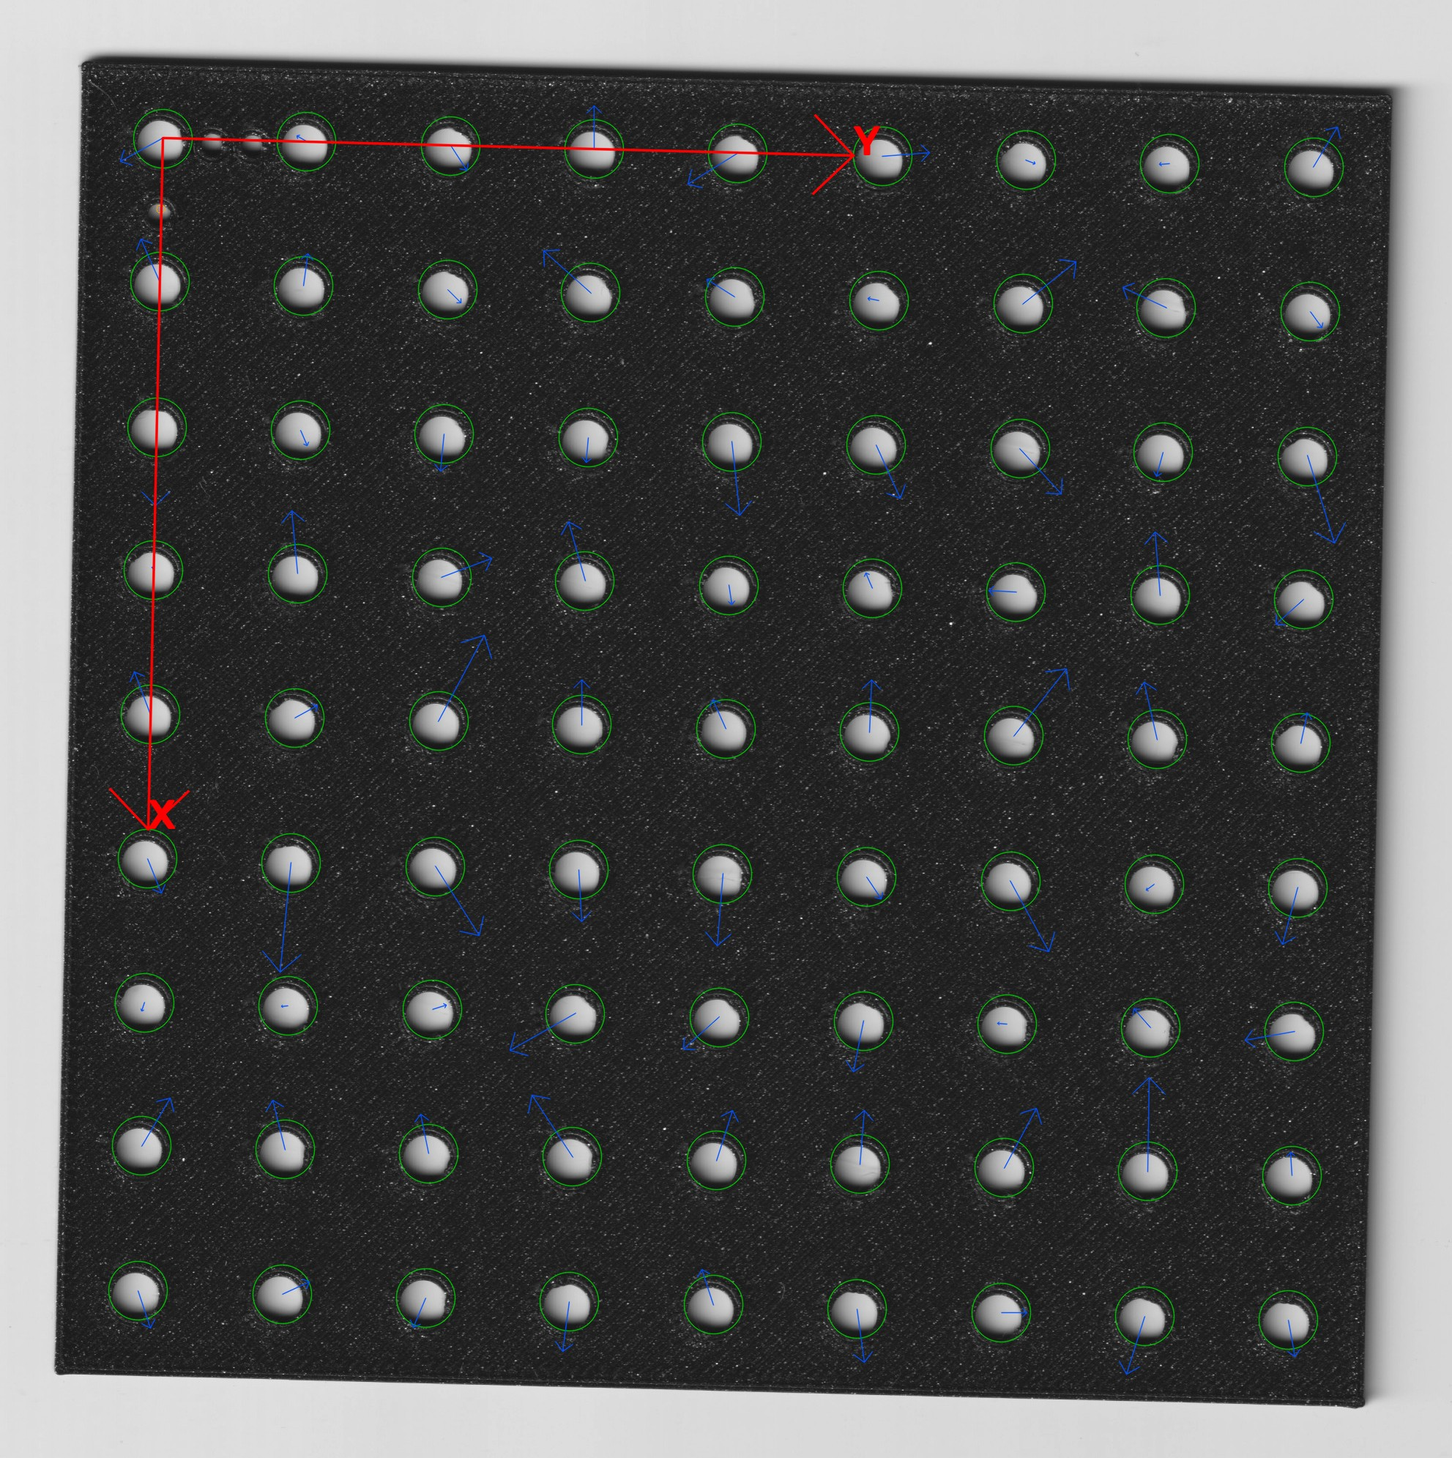
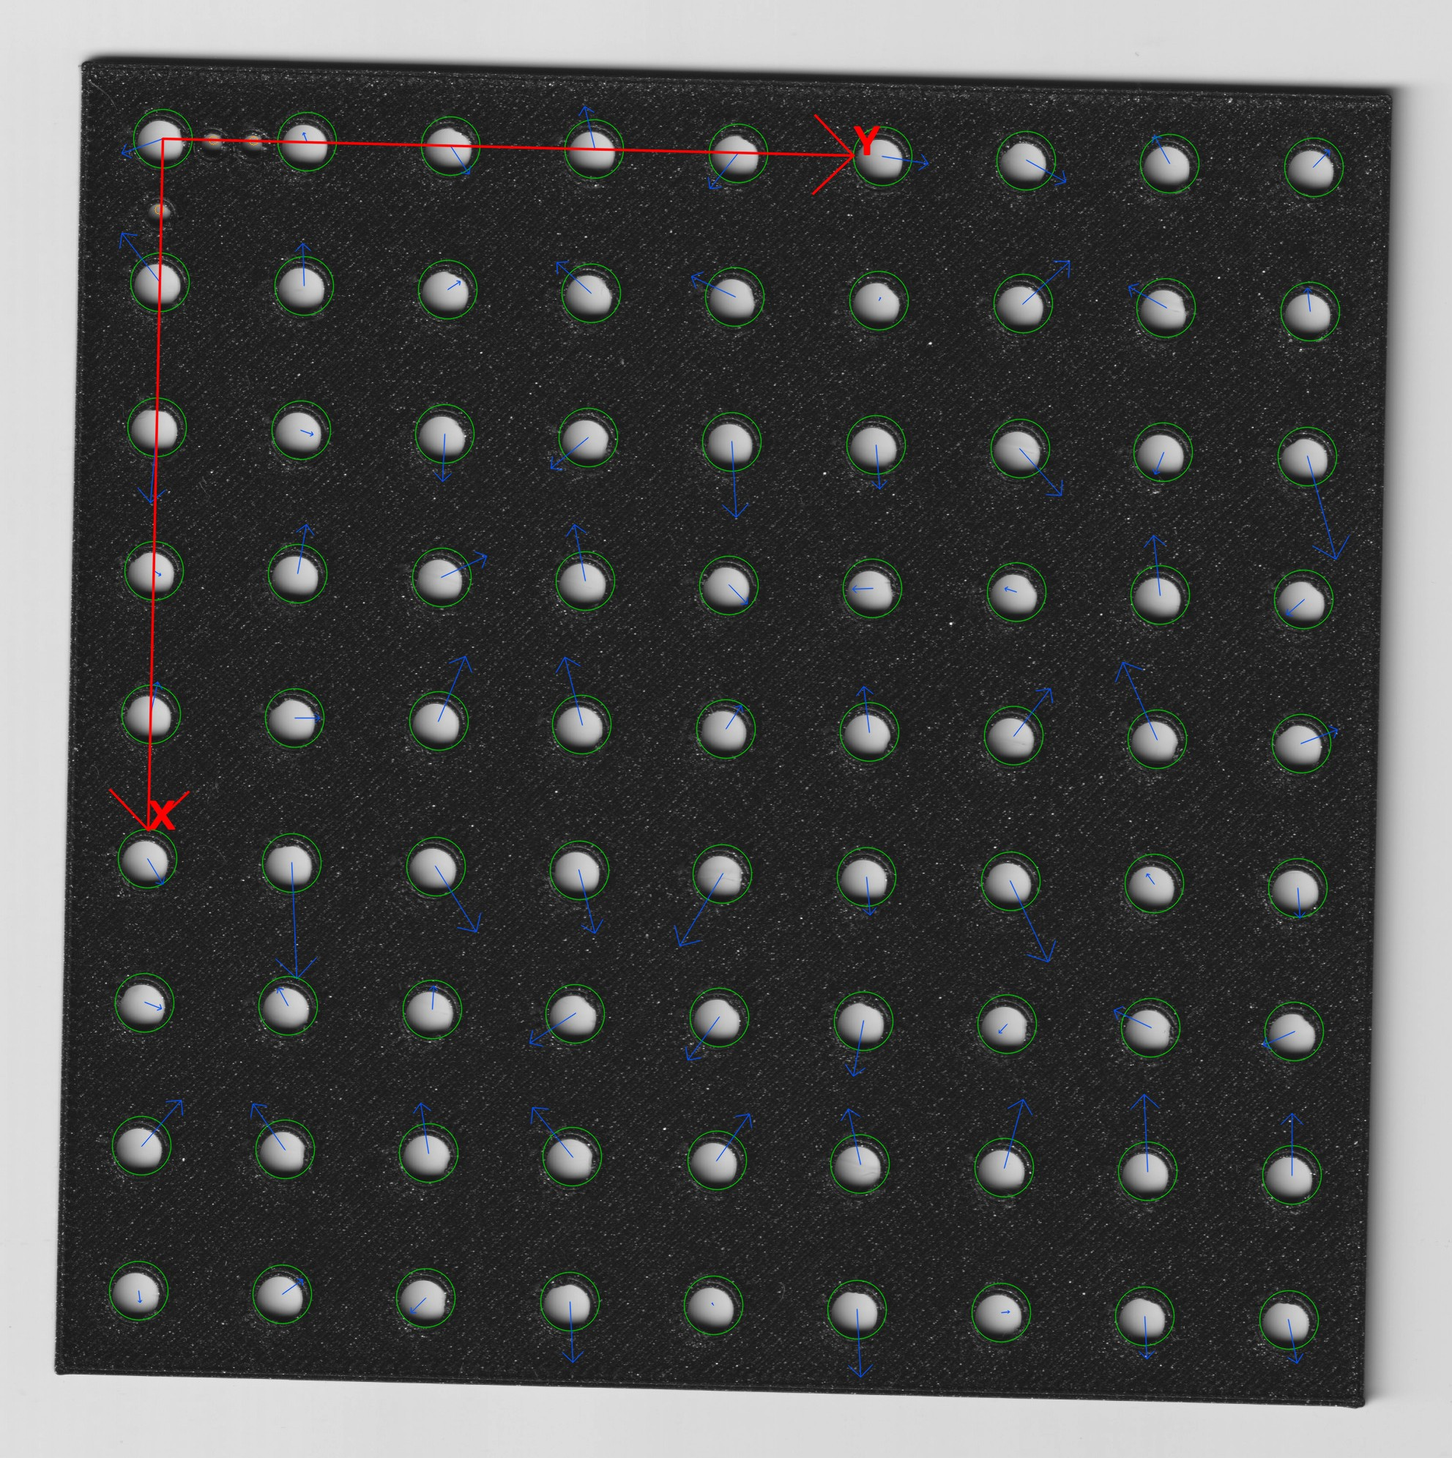
Glare-robust hole detection; photo capture tips
Glare bands from a lamp reflecting off the plate split the dark plate mask,
so whole columns of holes went missing and centroids were pulled toward
the glare. Detection now bridges such gaps to find the plate, finds hole
candidates from a local-contrast map, predicts missing grid positions from
the lattice, and measures every hole with an edge circle fit whose
threshold adapts per ray. Adds a synthetic glare test case.

Real data: 2x iPhone photos with glare go from 56-66/81 holes to 81/81;
1x photo residuals drop from ~60 to ~33 um; scans are unchanged within noise.

diff --git a/web/index.html b/web/index.html
@@ -301,7 +301,8 @@ ul.rules { margin: 0; padding-left: 1.1em; display: flex; flex-direction: column
         <ol class="steps">
           <li>Print the reference sheet at 100% and tape it to a flat, hard table.</li>
           <li>Lay the plate inside the window, between the corner ticks.</li>
-          <li>Shoot from 30–40 cm with the 2× or 3× lens, the whole sheet in frame, soft even light, no flash.</li>
+          <li>Shoot from 40–50 cm with the 2× or 3× lens, the whole sheet in frame. The 1× lens up close distorts too much for accurate scale.</li>
+          <li>Use soft, even light and no flash. Check that no lamp reflects off the plate as bright bands.</li>
           <li>Turn the plate 90° on the sheet and take another photo. Turning the phone doesn't count.</li>
           <li>Use the original files. Photos sent through chat apps are shrunk and lose the focal length.</li>
         </ol>

diff --git a/skewcal/analyze.py b/skewcal/analyze.py
@@ -53,19 +53,145 @@ def load_gray(path):
 # Hole detection in a metric (fronto-parallel, known px/mm) image
 # ---------------------------------------------------------------------------
 
-def _component_holes(comp):
-    """Given a binary component mask (uint8 0/1), return label image of the
-    enclosed background regions (holes) and their stats."""
-    inv = (comp == 0).astype(np.uint8)
-    n, lab, stats, cent = cv2.connectedComponentsWithStats(inv, connectivity=4)
-    H, W = comp.shape
-    holes = []
+def _ellipse(k):
+    k = max(3, int(k) | 1)
+    return cv2.getStructuringElement(cv2.MORPH_ELLIPSE, (k, k))
+
+
+def _plate_region(mask, s, spec: PlateSpec):
+    """Plate blob from a binary 'plate-coloured' mask. Works at ~2 px/mm: closing
+    bridges gaps such as glare bands across a shiny plate, and the outer contour
+    is filled so the holes are part of the region. Returns a full-res bool mask."""
+    f = min(1.0, 2.0 / s)
+    m = cv2.resize(mask.astype(np.float32), None, fx=f, fy=f, interpolation=cv2.INTER_AREA) > 0.5
+    m = cv2.morphologyEx(m.astype(np.uint8), cv2.MORPH_CLOSE, _ellipse(1.6 * spec.pitch * s * f))
+    cs, _ = cv2.findContours(m, cv2.RETR_EXTERNAL, cv2.CHAIN_APPROX_SIMPLE)
+    area = (spec.size * s * f) ** 2
+    cs = [c for c in cs if 0.35 * area < cv2.contourArea(c) < 1.6 * area]
+    if not cs:
+        return None
+    region = np.zeros_like(m)
+    cv2.drawContours(region, [max(cs, key=cv2.contourArea)], -1, 1, cv2.FILLED)
+    return cv2.resize(region, (mask.shape[1], mask.shape[0]), interpolation=cv2.INTER_NEAREST).astype(bool)
+
+
+def _local_contrast(d, region, s, spec: PlateSpec):
+    """Hole-likeness map in 0..1: (d - local plate level) / (hole level - local plate level).
+    d has holes bright. The local plate level comes from a grey opening at ~2 px/mm,
+    which removes hole-sized bright spots but follows broad glare and shading."""
+    f = min(1.0, 2.0 / s)
+    dc = cv2.resize(d, None, fx=f, fy=f, interpolation=cv2.INTER_AREA)
+    bgc = cv2.morphologyEx(dc, cv2.MORPH_OPEN, _ellipse(1.7 * spec.hole_d * s * f))
+    bgc = cv2.GaussianBlur(bgc, (0, 0), 1.0)
+    bg = cv2.resize(bgc, (d.shape[1], d.shape[0]), interpolation=cv2.INTER_LINEAR)
+    white = float(np.percentile(d[region], 99.5)) if region.any() else float(d.max())
+    norm = (d - bg) / np.maximum(white - bg, 0.05)
+    return np.clip(norm, 0, 1).astype(np.float32), bg
+
+
+def _blobs(norm, region, s, spec: PlateSpec):
+    """Hole-sized round blobs of the contrast map inside the plate region."""
+    A_big = math.pi * (spec.hole_d / 2 * s) ** 2
+    cand = ((norm > 0.5) & region).astype(np.uint8)
+    n, lab, stats, cent = cv2.connectedComponentsWithStats(cand, connectivity=8)
+    big, small = [], []
     for k in range(1, n):
         x, y, w, h, a = stats[k]
-        if x == 0 or y == 0 or x + w >= W or y + h >= H:
-            continue                          # touches border -> outside region
-        holes.append((k, x, y, w, h, a, cent[k]))
-    return lab, holes
+        if min(w, h) < 3:
+            continue
+        if max(w, h) / min(w, h) > 1.5 or not (0.55 < a / float(w * h) < 0.97):
+            continue
+        q = a / A_big
+        if 0.45 < q < 1.8:
+            big.append(cent[k])
+        elif 0.05 < q <= 0.45:
+            small.append(cent[k])
+    return np.array(big).reshape(-1, 2), np.array(small).reshape(-1, 2)
+
+
+def _lattice_px(pts, pitch_px, n):
+    """Predict every grid position (pixels) from a partial set of hole centres:
+    square lattice of the given pitch, n x n, containing the found holes."""
+    d = pts[None, :, :] - pts[:, None, :]
+    r = np.linalg.norm(d, axis=2)
+    vec = d[(r > 0.75 * pitch_px) & (r < 1.25 * pitch_px)]
+    if len(vec) < 6:
+        return np.empty((0, 2))
+    a = np.arctan2(vec[:, 1], vec[:, 0])
+    phi = math.atan2(np.sin(4 * a).mean(), np.cos(4 * a).mean()) / 4
+    B = pitch_px * np.array([[math.cos(phi), -math.sin(phi)], [math.sin(phi), math.cos(phi)]])
+    q0 = pts[np.argmin(np.linalg.norm(pts - np.median(pts, axis=0), axis=1))]
+    ij = np.linalg.solve(B, (pts - q0).T).T
+    ok = np.max(np.abs(ij - np.round(ij)), axis=1) < 0.3
+    ij = np.round(ij[ok]).astype(int)
+    if len(ij) < 6:
+        return np.empty((0, 2))
+    L, *_ = np.linalg.lstsq(np.c_[ij, np.ones(len(ij))], pts[ok], rcond=None)
+    lo, hi = ij.max(0) - (n - 1), ij.min(0) + (n - 1)
+    gi, gj = np.meshgrid(np.arange(lo[0], hi[0] + 1), np.arange(lo[1], hi[1] + 1), indexing="ij")
+    grid = np.c_[gi.ravel(), gj.ravel()]
+    return np.c_[grid, np.ones(len(grid))] @ L
+
+
+def _edge_circle(d, cx, cy, r, n_rays=96):
+    """Sub-pixel hole centre from its edge. Along each ray the edge is where the
+    profile crosses halfway between the hole interior and *that ray's* outside
+    level, so uneven surroundings (glare, shading) don't pull the centre.
+    Returns (cx, cy, radius_px) or None if this doesn't look like a hole."""
+    H, W = d.shape
+    ang = np.arange(n_rays) * (2 * math.pi / n_rays)
+    ca, sa = np.cos(ang)[:, None], np.sin(ang)[:, None]
+    dt = 0.25
+    t = np.arange(0.15 * r, 1.9 * r, dt, dtype=np.float32)
+    inner_m, outer_m = t < 0.45 * r, (t > 1.35 * r) & (t < 1.85 * r)
+    for _ in range(3):
+        if not (2 * r < cx < W - 2 * r and 2 * r < cy < H - 2 * r):
+            return None
+        X = (cx + ca * t).astype(np.float32)
+        Y = (cy + sa * t).astype(np.float32)
+        prof = cv2.remap(d, X, Y, cv2.INTER_LINEAR)
+        inner = float(np.median(prof[:, inner_m]))
+        outer = np.median(prof[:, outer_m], axis=1)
+        con = inner - outer
+        cmed = float(np.median(con))
+        if cmed < 0.08:
+            return None
+        valid = con > max(0.05, 0.3 * cmed)
+        thr = (inner + outer) / 2
+        start = int(np.argmax(t >= 0.45 * r))
+        below = prof[:, start:] < thr[:, None]
+        k = np.argmax(below, axis=1) + start
+        valid &= below.any(axis=1)
+        idx = np.nonzero(valid)[0]
+        if len(idx) < 0.35 * n_rays:
+            return None
+        p0, p1 = prof[idx, k[idx] - 1], prof[idx, k[idx]]
+        te = t[k[idx] - 1] + (p0 - thr[idx]) / np.maximum(p0 - p1, 1e-6) * dt
+        inside = (te > 0.5 * r) & (te < 1.4 * r)
+        idx, te = idx[inside], te[inside]
+        # need the edge on most sides, or the fit is lopsided
+        if len(idx) < 0.35 * n_rays or len(np.unique((ang[idx] // (math.pi / 2)).astype(int))) < 4:
+            return None
+        ex, ey = cx + np.cos(ang[idx]) * te, cy + np.sin(ang[idx]) * te
+        keep = np.ones(len(ex), bool)
+        for _ in range(3):
+            A = np.c_[ex[keep], ey[keep], np.ones(keep.sum())]
+            sol, *_ = np.linalg.lstsq(A, -(ex[keep] ** 2 + ey[keep] ** 2), rcond=None)
+            ox, oy = -sol[0] / 2, -sol[1] / 2
+            rad = math.sqrt(max(ox * ox + oy * oy - sol[2], 1e-9))
+            res = np.abs(np.hypot(ex - ox, ey - oy) - rad)
+            mad = 1.4826 * np.median(res[keep])
+            new = res < max(3 * mad, 0.3)
+            if new.sum() < 0.3 * n_rays or np.array_equal(new, keep):
+                break
+            keep = new
+        if not (0.5 * r < rad < 1.4 * r):
+            return None
+        moved = math.hypot(ox - cx, oy - cy)
+        cx, cy = ox, oy
+        if moved < 0.01:
+            break
+    return cx, cy, rad
 
 
 def detect_holes(g, s, spec: PlateSpec, debug=None):
@@ -74,96 +200,62 @@ def detect_holes(g, s, spec: PlateSpec, debug=None):
     g: float32 image (0..1) where 1 px = 1/s mm, fronto-parallel.
     Returns dict with 'big' (N,2) and 'small' (M,2) sub-pixel centres in pixel
     coordinates (col,row), hole diameters (mm) and image statistics.
+
+    The plate is located with a global threshold (gaps such as glare bands are
+    bridged), hole candidates come from a local-contrast map, missing grid
+    positions are predicted from the lattice, and every grid hole is measured
+    by an edge circle fit that adapts to its own surroundings.
     """
     sig = max(0.6, 0.06 * s)
     gb = cv2.GaussianBlur(g, (0, 0), sig)
     g8 = np.clip(gb * 255, 0, 255).astype(np.uint8)
     _, bright = cv2.threshold(g8, 0, 1, cv2.THRESH_BINARY + cv2.THRESH_OTSU)
 
-    plate_area = (spec.size * s) ** 2
-    A_big = math.pi * (spec.hole_d / 2 * s) ** 2
     best = None
     for dark_plate in (True, False):
-        mask = (bright == 0) if dark_plate else (bright == 1)
-        mask = mask.astype(np.uint8)
-        n, lab, stats, _ = cv2.connectedComponentsWithStats(mask, connectivity=8)
-        order = np.argsort(-stats[1:, cv2.CC_STAT_AREA]) + 1
-        for k in order[:4]:
-            x, y, w, h, a = stats[k]
-            if not (0.35 * plate_area < a < 1.6 * plate_area):
-                continue
-            pad = 3
-            comp = np.zeros((h + 2 * pad, w + 2 * pad), np.uint8)
-            comp[pad:pad + h, pad:pad + w] = (lab[y:y + h, x:x + w] == k)
-            hlab, holes = _component_holes(comp)
-            big, small = [], []
-            for (hk, hx, hy, hw, hh, ha, hc) in holes:
-                if min(hw, hh) < 3:
-                    continue
-                aspect = max(hw, hh) / min(hw, hh)
-                fill = ha / float(hw * hh)
-                if aspect > 1.5 or not (0.55 < fill < 0.97):
-                    continue
-                q = ha / A_big
-                entry = (hc[0] + x - pad, hc[1] + y - pad, ha)
-                if 0.45 < q < 1.8:
-                    big.append(entry)
-                elif 0.05 < q <= 0.45:
-                    small.append(entry)
-            score = len(big)
-            if best is None or score > best["score"]:
-                plate_px = comp[pad:pad + h, pad:pad + w].astype(bool)
-                best = dict(score=score, big=big, small=small, dark_plate=dark_plate,
-                            bbox=(x, y, w, h), plate_px=plate_px)
-    if best is None or best["score"] < 6:
+        region = _plate_region(bright == (0 if dark_plate else 1), s, spec)
+        if region is None:
+            continue
+        d = gb if dark_plate else 1.0 - gb
+        norm, bg = _local_contrast(d, region, s, spec)
+        big, small = _blobs(norm, region, s, spec)
+        if best is None or len(big) > len(best["big"]):
+            best = dict(big=big, small=small, dark_plate=dark_plate, region=region, d=d, norm=norm)
+    if best is None or len(best["big"]) < 6:
         raise RuntimeError("Could not find the test plate in the image (need clear contrast "
                            "between the plate and what is behind its holes).")
 
-    x, y, w, h = best["bbox"]
-    sub = gb[y:y + h, x:x + w]
-    lvl_plate = float(np.median(sub[best["plate_px"]]))
-
-    # Hole (background) level: median inside the big holes
-    vals = []
-    for cx, cy, _ in best["big"]:
-        r = 0.3 * spec.hole_d / 2 * s
-        x0, x1 = int(cx - r), int(cx + r) + 1
-        y0, y1 = int(cy - r), int(cy + r) + 1
-        vals.append(np.median(gb[y0:y1, x0:x1]))
-    lvl_hole = float(np.median(vals))
-
-    def refine(cx, cy, rad_mm):
-        r = rad_mm * s
-        R = 1.35 * r + 2
-        for _ in range(4):
-            x0, x1 = int(math.floor(cx - R)), int(math.ceil(cx + R)) + 1
-            y0, y1 = int(math.floor(cy - R)), int(math.ceil(cy + R)) + 1
-            if x0 < 0 or y0 < 0 or x1 > g.shape[1] or y1 > g.shape[0]:
-                return None
-            patch = gb[y0:y1, x0:x1]
-            yy, xx = np.mgrid[y0:y1, x0:x1].astype(np.float32)
-            w = np.clip((patch - lvl_plate) / (lvl_hole - lvl_plate), 0, 1)
-            w *= ((xx - cx) ** 2 + (yy - cy) ** 2) <= R * R
-            sw = w.sum()
-            if sw <= 0:
-                return None
-            cx, cy = float((w * xx).sum() / sw), float((w * yy).sum() / sw)
-        d_mm = 2 * math.sqrt(sw / math.pi) / s
-        return cx, cy, d_mm
-
+    d, r_big = best["d"], spec.hole_d / 2 * s
+    pitch_px = spec.pitch * s
+    # every grid position the lattice predicts, then the blobs that the lattice missed
+    seeds = list(_lattice_px(best["big"], pitch_px, spec.n)) + list(best["big"])
     big, dbig = [], []
-    for cx, cy, _ in best["big"]:
-        r = refine(cx, cy, spec.hole_d / 2)
-        if r:
-            big.append(r[:2]); dbig.append(r[2])
+    for cx, cy in seeds:
+        if any(math.hypot(cx - bx, cy - by) < 0.4 * pitch_px for bx, by in big):
+            continue
+        r = _edge_circle(d, cx, cy, r_big)
+        if r and not any(math.hypot(r[0] - bx, r[1] - by) < 0.4 * pitch_px for bx, by in big):
+            big.append(r[:2]); dbig.append(2 * r[2] / s)
+
+    norm = best["norm"]
     small = []
-    for cx, cy, _ in best["small"]:
-        r = refine(cx, cy, spec.marker_d / 2)
-        if r:
-            small.append(r[:2])
-    return dict(big=np.array(big), small=np.array(small), hole_d=np.array(dbig),
-                dark_plate=best["dark_plate"], contrast=abs(lvl_hole - lvl_plate),
-                gb=gb, lvl_plate=lvl_plate, lvl_hole=lvl_hole, s=s)
+    R = int(math.ceil(0.9 * spec.marker_d * s))
+    for cx, cy in best["small"]:
+        x0, y0 = int(cx) - R, int(cy) - R
+        patch = norm[max(y0, 0):y0 + 2 * R + 1, max(x0, 0):x0 + 2 * R + 1]
+        if patch.size == 0 or patch.sum() <= 0:
+            continue
+        yy, xx = np.mgrid[max(y0, 0):max(y0, 0) + patch.shape[0], max(x0, 0):max(x0, 0) + patch.shape[1]]
+        small.append((float((patch * xx).sum() / patch.sum()), float((patch * yy).sum() / patch.sum())))
+
+    region = best["region"]
+    lvl_plate = float(np.median(gb[region & (norm < 0.2)]))
+    hole_vals = [gb[int(round(cy)), int(round(cx))] for cx, cy in big]
+    lvl_hole = float(np.median(hole_vals)) if hole_vals else float(gb.max())
+    return dict(big=np.array(big).reshape(-1, 2), small=np.array(small).reshape(-1, 2),
+                hole_d=np.array(dbig), dark_plate=best["dark_plate"],
+                contrast=abs(lvl_hole - lvl_plate), gb=gb, norm=norm,
+                lvl_plate=lvl_plate, lvl_hole=lvl_hole, s=s)
 
 
 # ---------------------------------------------------------------------------
@@ -266,8 +358,7 @@ def index_grid_by_lattice(det, big, spec: PlateSpec, to_mm):
     px = det["big"]
     M, *_ = np.linalg.lstsq(np.c_[to_mm(px), np.ones(len(px))], px, rcond=None)
     s = det["s"]
-    g = cv2.GaussianBlur(det["gb"], (0, 0), max(0.6, 0.15 * s))
-    lp, lh = det["lvl_plate"], det["lvl_hole"]
+    g = cv2.GaussianBlur(det["norm"], (0, 0), max(0.6, 0.15 * s))   # 0 = plate, 1 = hole
     R = max(1, int(round(0.5 * s)))
     yy, xx = np.mgrid[-R:R + 1, -R:R + 1]
     disk = xx ** 2 + yy ** 2 <= R * R
@@ -278,7 +369,7 @@ def index_grid_by_lattice(det, big, spec: PlateSpec, to_mm):
         if cx - R < 0 or cy - R < 0 or cx + R + 1 > g.shape[1] or cy + R + 1 > g.shape[0]:
             return 0.0
         v = g[cy - R:cy + R + 1, cx - R:cx + R + 1][disk].max()
-        return float(np.clip((v - lp) / (lh - lp), 0, 1))
+        return float(np.clip(v, 0, 1))
 
     m, h = 0.5, spec.y_pair_sep / 2 / p
     cands = []

diff --git a/tests/synth.py b/tests/synth.py
@@ -92,8 +92,10 @@ def look_at(C, T):
 def render_photo(path, spec, M, f=3000.0, size=(3000, 2250), cam=(15, -40, 330), target=(0, 0, 0),
                  plate_rot=0.0, plate_off=(0, 0), h=0.8, k1=0.0, paper=np.eye(2),
                  dark_plate=True, dark_window=False, noise=0.012, blur=1.0, seed=0, jpeg=92,
-                 marker_scale=1.0, warp=0.0):
-    """warp: height (mm) of the plate corners above its centre (a cupped plate)."""
+                 marker_scale=1.0, warp=0.0, glare=0.0, glare_period=220.0, glare_angle=40.0):
+    """warp: height (mm) of the plate corners above its centre (a cupped plate).
+    glare: peak brightness added to the plate surface in diagonal bands, like a lamp
+    reflecting off the shiny top-layer lines (holes and paper are not affected)."""
     Wd, Hd = size
     c = np.array([(Wd - 1) / 2, (Hd - 1) / 2])
     K = np.array([[f, 0, c[0]], [0, f, c[1]], [0, 0, 1]])
@@ -139,8 +141,19 @@ def render_photo(path, spec, M, f=3000.0, size=(3000, 2250), cam=(15, -40, 330),
     for hp in holes:
         _fill(U, proj_plate(hp), behind)
     g = _down(U).astype(np.float32) / 255
-    # vignetting
     yy, xx = np.mgrid[0:Hd, 0:Wd].astype(np.float32)
+    if glare:
+        P = np.zeros((Hd * SS, Wd * SS), np.uint8)
+        _fill(P, proj_plate(outline), 255)
+        for hp in holes:
+            _fill(P, proj_plate(hp), 0)
+        on_plate = _down(P).astype(np.float32) / 255
+        a = math.radians(glare_angle)
+        u = (xx * math.cos(a) + yy * math.sin(a)) / glare_period
+        band = np.clip(np.cos(2 * math.pi * u), 0, 1) ** 3
+        env = np.exp(-(((xx - c[0]) / (0.45 * Wd)) ** 2 + ((yy - c[1]) / (0.45 * Hd)) ** 2))
+        g += glare * band * env * on_plate
+    # vignetting
     rr = ((xx - c[0]) ** 2 + (yy - c[1]) ** 2) / (0.5 * math.hypot(Wd, Hd)) ** 2
     g *= (1 - 0.25 * rr)
     # lens distortion: distorted pixel p_d shows undistorted point p_u

diff --git a/tests/run_tests.py b/tests/run_tests.py
@@ -109,6 +109,16 @@ res, _ = run(["photo", p5, p6, "--out", OUT, "--no-annotate", "--focal-px", "300
 print(f"      same without warp model: theta err {1000*(res['theta']-th3):+.1f} mdeg,"
       f" scale err X {1e4*(res['scale_x']-sx3):+.1f} Y {1e4*(res['scale_y']-sy3):+.1f} (x1e-4)")
 
+# ---- 6. phone, glare bands across a shiny plate (real-photo problem, 2026-10-13) -----------
+p7 = os.path.join(OUT, "photo_7.jpg"); p8 = os.path.join(OUT, "photo_8.jpg")
+synth.render_photo(p7, spec, M3, cam=(10, -30, 300), plate_rot=0.5, k1=-0.02, paper=paper,
+                   glare=0.6, glare_angle=40, seed=11)
+synth.render_photo(p8, spec, M3, cam=(-15, -35, 310), plate_rot=90.5, k1=-0.02, paper=paper,
+                   glare=0.6, glare_angle=-35, seed=12)
+res, _ = run(["photo", p7, p8, "--out", OUT, "--focal-px", "3000",
+              "--span-x", f"{174*1.003:.2f}", "--span-y", f"{234*0.998:.2f}"])
+check("phone, glare bands on the plate", res, th3, sx3, sy3, 0.02, 1.5e-3)
+
 print()
 print("ALL PASSED" if not failures else f"FAILED: {failures}")
 sys.exit(1 if failures else 0)

diff --git a/README.md b/README.md
@@ -59,7 +59,7 @@ The G-code post-processor (`skew_gcode.py`) uses only the Python standard librar
 
    For a ruler, stand it on edge and start at the 10 mm mark. If your calipers are too short, or you want to cancel toner spread, measure like edges instead (left edge to left edge, nominal 160 mm; top edge to top edge, nominal 220 mm) and scale: `span_x = L × 174/160`, `span_y = L × 234/220`.
 3. Tape the sheet to a flat, hard table, not a book or a mat. Lay the plate in the window.
-4. Photograph from about 30–40 cm, using the **2× or 3× lens** if you have one. The whole sheet should be in frame, with soft even light, no flash, and no shadow of the phone. A slight tilt is fine. Close up with the 1× lens, every bit of plate or paper height shows up as a position error.
+4. Photograph from about 40–50 cm, using the **2× or 3× lens** if you have one. Avoid the 1× lens up close: its leftover lens distortion makes a flat plate look bowled by several millimetres, which throws off the scale. Keep lamps out of the plate's reflection; bright glare bands on the plate are handled, but they add noise. The whole sheet should be in frame, with soft even light, no flash, and no shadow of the phone. A slight tilt is fine. Close up with the 1× lens, every bit of plate or paper height shows up as a position error.
 5. **Turn the plate 90° on the sheet** and take another photo. Turning the phone, or the sheet and plate together, does not count: the plate has to change orientation *relative to the sheet's markers*. Two to four photos are best.
 6. Use the **original files**. AirDrop them or copy them from Photos into the folder. Images pasted into a chat are shrunk to about 2000 px and lose the EXIF focal length, which costs accuracy.
 7. Run:
